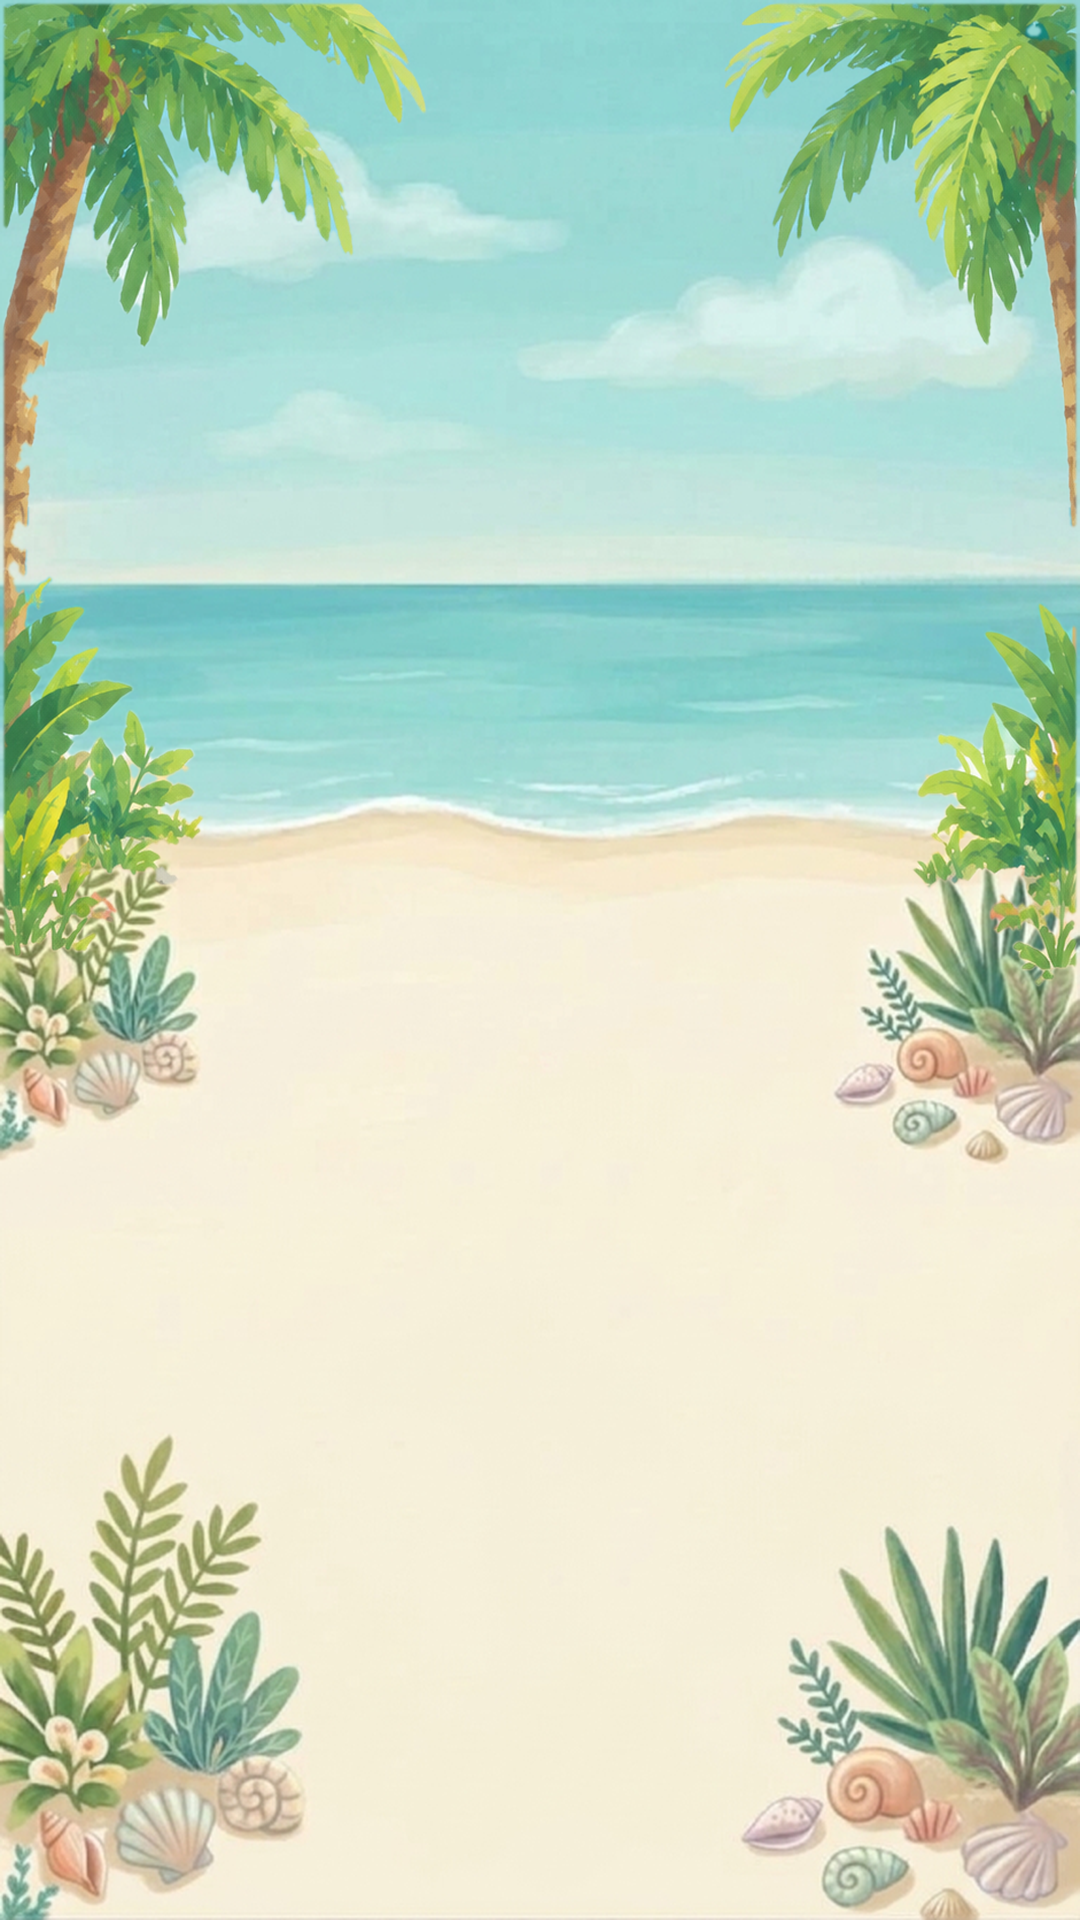
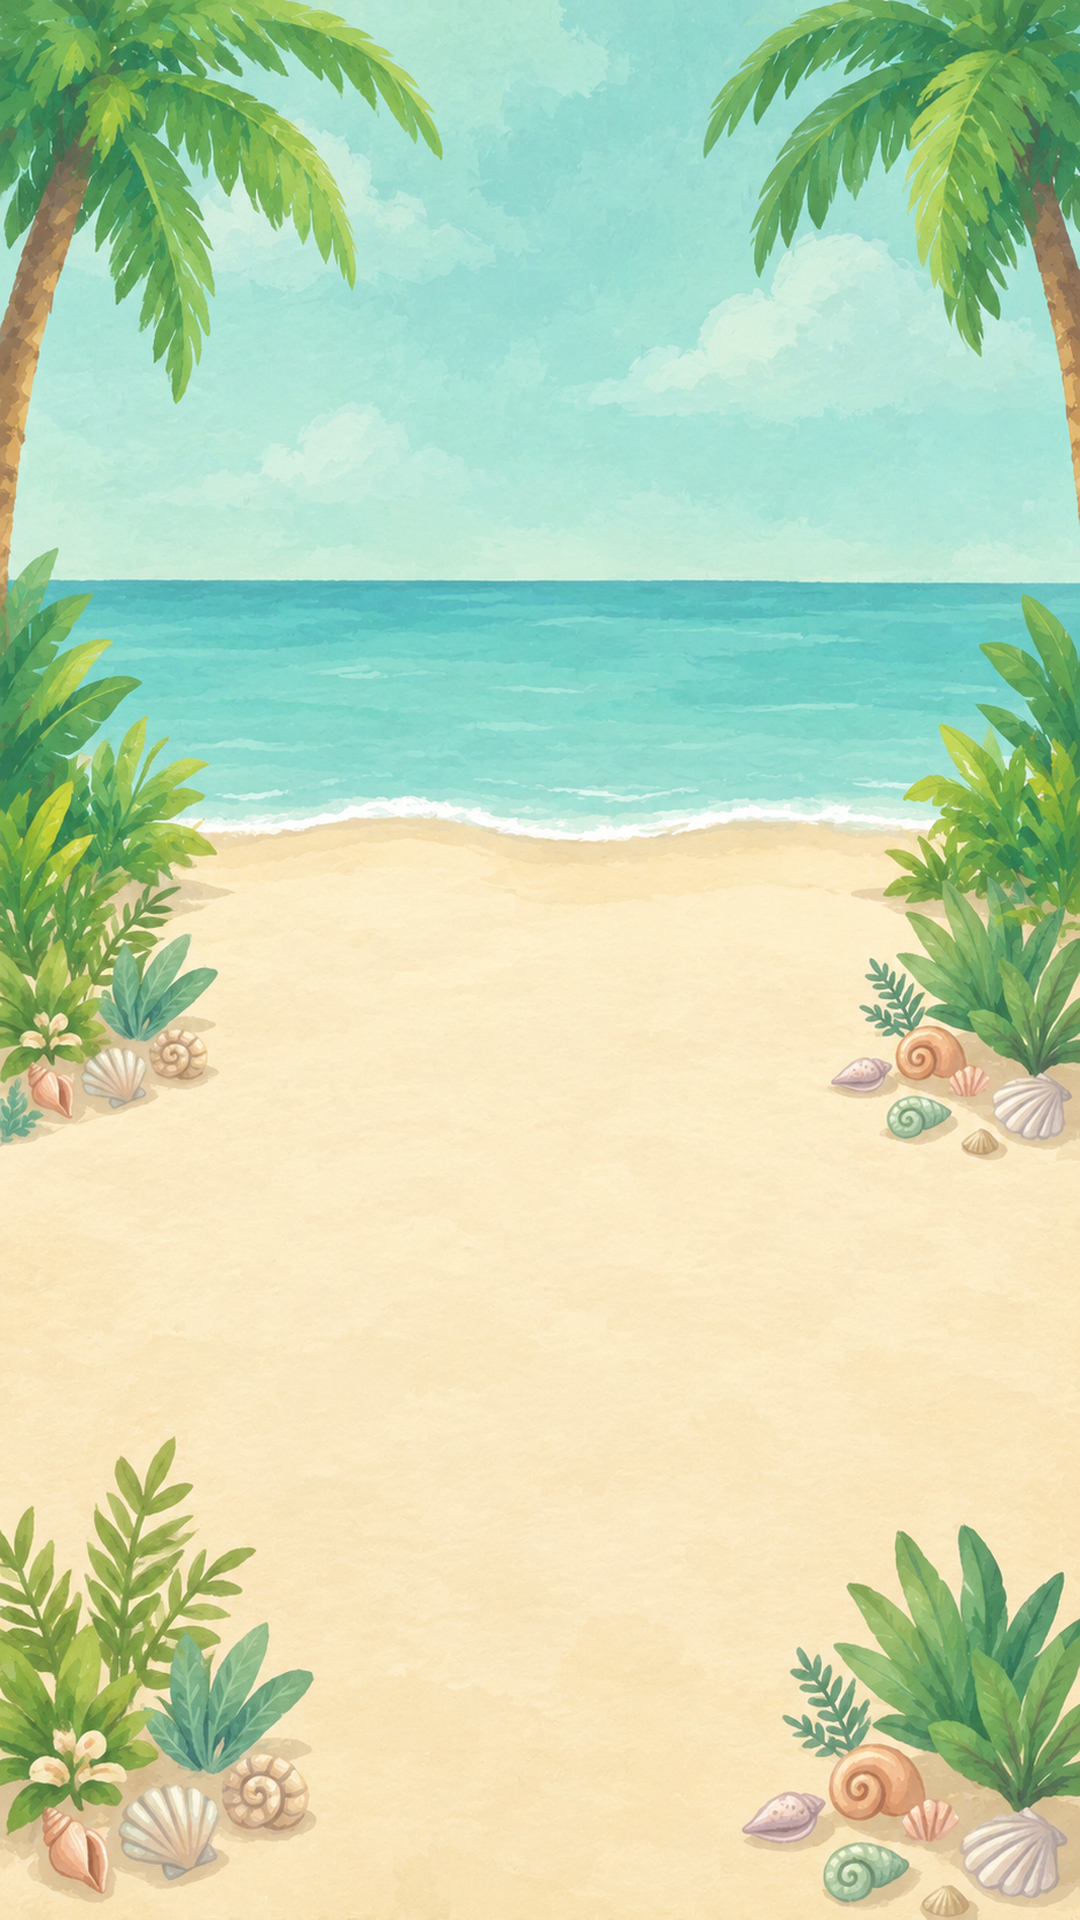
Owner's ticks of 15 November: yoga pose effect B5 (sparks with a soft flash, YogaGlow.Style 8); ChatGPT's chapter 2 beach repaint as the day background; small fixes approved; report with the matching night for their tick

diff --git a/Docs/tools/report_page/index.html b/Docs/tools/report_page/index.html
@@ -74,9 +74,7 @@ h3 small{font-weight:600;color:var(--soft);font-size:13px;margin-left:6px}
 <h2 id="next"><span class="n">1</span>Next</h2>
 <div class="grid">
 <div class="who p1"><h3>You</h3>
-<p><b>Yoga lady's sparks</b> (Current): pick one of five.</p>
-<p><b>Look and tick</b> (Current): cookie box, red handle, stars in the shop, tab icons.</p>
-<p><b>Chapter 2 beach</b> (Current): ChatGPT's repaint, tick one.</p>
+<p><b>Chapter 2 night beach</b> (Current): ChatGPT's night, tick it.</p>
 <p><b>Say "build"</b> when you want a test build with these. None before your word.</p></div>
 <div class="who p2"><h3>Me</h3><p>26.11.22 and the 15 Stars are waiting for Apple's review; they go on sale by themselves.</p></div>
 </div>
@@ -95,50 +93,15 @@ h3 small{font-weight:600;color:var(--soft);font-size:13px;margin-left:6px}
 <h2 id="current"><span class="n">3</span>Current</h2>
 
 <div class="card">
-<p style="margin-top:0"><b>Chapter 2 beach background from ChatGPT, 15 November.</b> Not in the game.</p>
-<figure><img src="beach_ba.jpg" alt="The beach background now, and ChatGPT's repaint with whole palms and plants"><figcaption>Left: the game now. Right: ChatGPT's repaint.</figcaption></figure>
-<figure><img src="beach_zoom.jpg" alt="Close-ups of the palms and the side plants, now above and ChatGPT's below"><figcaption>Close-ups. Top: now, with chopped palm trunks and leaves. Bottom: ChatGPT's, every palm and plant whole.</figcaption></figure>
+<p style="margin-top:0"><b>Chapter 2 beach at night, to match the new day, 15 November.</b> The new day is in the game (your tick); this night is not yet.</p>
+<figure><img src="beach_night.jpg" alt="The old night beach, the new day beach, and ChatGPT's new night beach"><figcaption>Left: the night in the game now. Middle: the new day, in the game. Right: ChatGPT's new night.</figcaption></figure>
 <ul>
-<li><b>Fixed:</b> whole palm trees, fronds with natural tips, whole plants and shells; nothing ends in a straight cut.</li>
-<li><b>Changed:</b> the sand is a warmer yellow than now; the clouds are softer.</li>
-<li>ChatGPT's picture is a little smaller than the game's (941 x 1672 against 1080 x 1920); it would be scaled up slightly. The night background would be made from it after your pick.</li>
+<li>The night fades in over the day at dusk, so its palms, plants and shells must sit where the day's do. ChatGPT's night keeps them in place, with the old night's moon, stars, moonlit path and blue sand.</li>
+<li>Until you tick, the old night stays; at dusk its palms would not line up with the new day's.</li>
 </ul>
 <ul class="checks">
-<li><label><input type="checkbox" data-id="cur.beach3.use"> Use it</label></li>
-<li><label><input type="checkbox" data-id="cur.beach3.redo"> Redo it, I will say what</label></li>
-<li><label><input type="checkbox" data-id="cur.beach3.keep"> Keep the old one</label></li>
-</ul>
-</div>
-
-<div class="card">
-<p style="margin-top:0"><b>Yoga lady: sparks, B and four more like it, 15 November.</b> B is in the game until you pick.</p>
-<div class="grid">
-<figure><img src="yoga_b1.gif" alt="B1: gold and white sparkles burst out from her"><figcaption><b>B1, the one you liked:</b> sparkles burst out from her.</figcaption></figure>
-<figure><img src="yoga_b2.gif" alt="B2: sparkles float up from her"><figcaption><b>B2, rising:</b> sparkles float up from her like bubbles, twinkling.</figcaption></figure>
-<figure><img src="yoga_b3.gif" alt="B3: little game stars burst out and spin"><figcaption><b>B3, stars:</b> the game's own little stars burst out and spin.</figcaption></figure>
-<figure><img src="yoga_b4.gif" alt="B4: sparkles twinkle in a ring around her"><figcaption><b>B4, twinkle ring:</b> sparkles twinkle in a ring around her, staying in place.</figcaption></figure>
-<figure><img src="yoga_b5.gif" alt="B5: the burst with a soft golden flash behind her"><figcaption><b>B5, burst and flash:</b> B1 with a soft golden flash behind her.</figcaption></figure>
-</div>
-<ul><li>Each lasts about a second. Slowed down here, one picture every tenth of a second.</li></ul>
-<ul class="checks">
-<li><label><input type="checkbox" data-id="cur.yogab.1"> B1</label></li>
-<li><label><input type="checkbox" data-id="cur.yogab.2"> B2</label></li>
-<li><label><input type="checkbox" data-id="cur.yogab.3"> B3</label></li>
-<li><label><input type="checkbox" data-id="cur.yogab.4"> B4</label></li>
-<li><label><input type="checkbox" data-id="cur.yogab.5"> B5</label></li>
-</ul>
-</div>
-
-<div class="card">
-<p style="margin-top:0"><b>Small fixes, 15 November.</b> In the game, in no build.</p>
-<div class="grid">
-<figure><img src="cookie_box.jpg" alt="The cookie plate with its old box in grey and its new box in red"><figcaption><b>Cookie box.</b> Grey: before, it ran past the plate at the bottom and the corners. Red: now, inside the plate.</figcaption></figure>
-<figure><img src="handle_red.jpg" alt="The handle dragged onto the coffee machine shows red"><figcaption><b>Handle over an item:</b> it turns red, like food. Let go there and it goes back to its last free spot.</figcaption></figure>
-</div>
-<figure><img src="shop_icons.jpg" alt="The shop tabs with a star, a gold coin and a green banknote; the yoga lady's card and the star pack's card with the star picture in place of the word stars"><figcaption><b>Shop.</b> Top: the taller tabs (your note) with a star, a gold coin and a green banknote, all painted from the game's star. Below: the star picture in place of the word "stars" on the yoga lady's card and the star pack's.</figcaption></figure>
-<ul class="checks">
-<li><label><input type="checkbox" data-id="cur.fix15.ship"> All good to ship</label></li>
-<li><label><input type="checkbox" data-id="cur.fix15.redo"> Not yet, I will say what</label></li>
+<li><label><input type="checkbox" data-id="cur.beachnight.use"> Use it</label></li>
+<li><label><input type="checkbox" data-id="cur.beachnight.redo"> Redo it, I will say what</label></li>
 </ul>
 </div>
 
@@ -158,11 +121,13 @@ h3 small{font-weight:600;color:var(--soft);font-size:13px;margin-left:6px}
 <h2 id="mvp"><span class="n">4</span>MVP</h2>
 <p class="sub" style="margin:0 0 8px">For the release after 26.11.22. Nothing here is in a build.</p>
 <div class="card">
+<p style="margin-top:0"><b>Approved by you:</b></p>
 <ul>
-<li><b>Yoga lady:</b> a quarter bigger; an effect when she finishes a pose (your pick).</li>
+<li><b>Yoga lady</b> a quarter bigger; sparkles with a soft flash when she finishes a pose (B5).</li>
 <li><b>Cookie plate:</b> its box fits the plate.</li>
 <li><b>Handle:</b> red over an item while arranging.</li>
-<li><b>Shop:</b> picture tabs; the star picture in the star cards' texts.</li>
+<li><b>Shop:</b> taller picture tabs (star, coin, banknote); the star picture in the star cards' texts.</li>
+<li><b>Chapter 2 beach:</b> ChatGPT's repaint by day; the night to match is coming.</li>
 </ul>
 </div>
 

diff --git a/Assets/Scripts/Customer/YogaGlow.cs b/Assets/Scripts/Customer/YogaGlow.cs
@@ -16,7 +16,7 @@ using UnityEngine;
 ///   8 Burst + flash: the sparks of 2 with a quick soft flash behind her.
 public static class YogaGlow
 {
-    public static int Style = 2;   // the owner's pick so far: sparks (15 November 2026); 5 to 8 are its variants
+    public static int Style = 8;   // the owner's pick, 15 November 2026: B5 in the report, the sparks with a soft flash behind her
     private static Sprite glow, spark;
     private static readonly Color Gold = new Color(1f, 0.86f, 0.42f);
 
